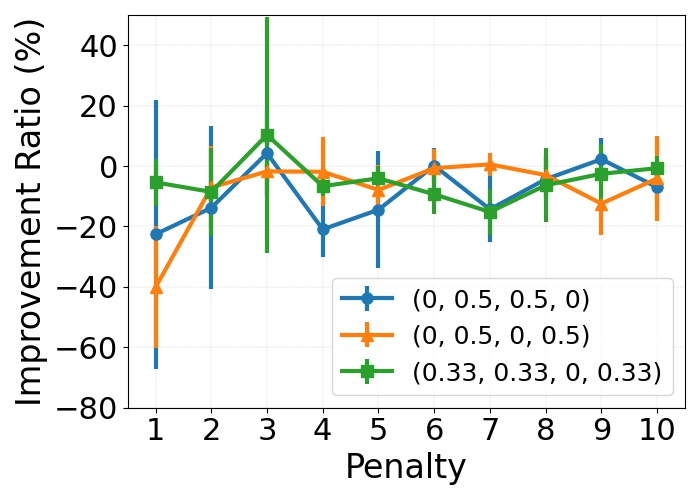
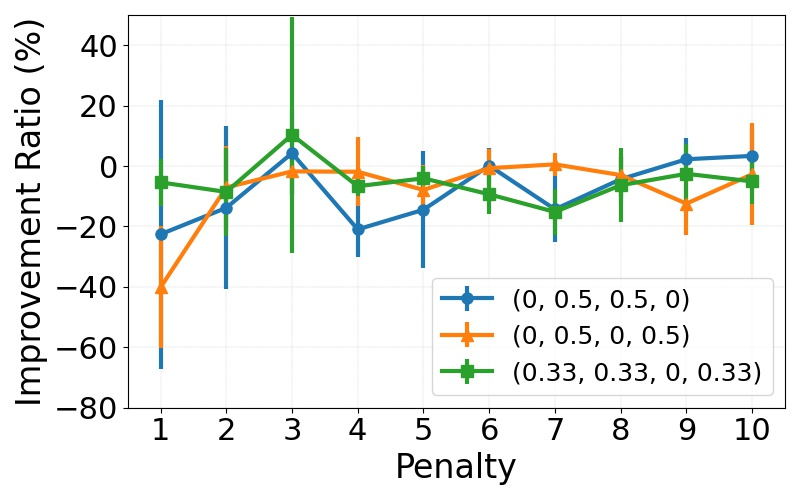
collecting more traces with penalty 10

diff --git a/ResultAnalysis/overall_performance.py b/ResultAnalysis/overall_performance.py
@@ -1,5 +1,5 @@
 """
-    Performance summary when penalty factor is 1
+    Overall performance. Factor 10 vs 1
 """
 
 import datetime
@@ -21,13 +21,11 @@ dataset_name = 'speech_command'
 model_name = 'resnet_10'
 initial_M = 20
 initial_E = 20
-penalty = 1
+penalty_arr = [1, 10]
 trace_id_arr = [1, 2, 3]
 
 # --- End of Configuration ---
 
-# average overall performance
-mean_overall = 0
 
 # temporarily add this project to system path
 project_dir = str(pathlib.Path(__file__).resolve().parents[1])
@@ -68,18 +66,16 @@ baseline = read_traces_of_preference_penalty(
 
 for preference in preference_combine_all:
 
-    trace_result = read_traces_of_preference_penalty(
-        dataset_name=dataset_name, model_name=model_name, initial_M=initial_M, initial_E=initial_E,
-        preference=preference, penalty=penalty, trace_id_arr=trace_id_arr, baseline=baseline)
-    result_map[tuple(preference)] = trace_result
+    for penalty in penalty_arr:
+        trace_result = read_traces_of_preference_penalty(
+            dataset_name=dataset_name, model_name=model_name, initial_M=initial_M, initial_E=initial_E,
+            preference=preference, penalty=penalty, trace_id_arr=trace_id_arr, baseline=baseline)
+        map_key = np.append(preference, [penalty])
+        result_map[tuple(preference)] = trace_result
 
 # For ReadMe format
 markdown_message = '| alpha | beta | gamma | delta | penalty | trace id | CompT (10^12) | TransT (10^6) | CompL (10^12) | TransL (10^6) | Final M | Final E | Overall |\n'
 markdown_message += '| :---: | :---: | :---: | :---: | :---: | :---: | :---: | :---: | :---: | :---: | :---: | :---: | :---: |\n'
-
-# For Latex format in paper writing
-latex_message = r'\begin{tabular}{c c c c | c c c c | c c | c}' + '\n'
-latex_message += r'$\alpha$ & $\beta$ & $\gamma$  & $\delta$ & CompT ($10^{12}$) & TransT ($10^6$) & CompL ($10^{12}$) & TransL ($10^6$) & Final M & Final E & Overall \\' + '\n'
 
 markdown_message += f'| - | - | - | - | - | {trace_id_arr} | ' \
                     f'{baseline.mean_system[0] / 10 ** 12:.2f} ({baseline.std_system[0] / 10 ** 12:.2f}) | ' \
@@ -89,20 +85,10 @@ markdown_message += f'| - | - | - | - | - | {trace_id_arr} | ' \
                     f'{baseline.mean_final_M:.2f} ({baseline.std_final_M:.2f}) | ' \
                     f'{baseline.mean_final_E:.2f} ({baseline.std_final_E:.2f}) | - |\n'
 
-latex_message += f'- & - & - & - & ' \
-                    f'{baseline.mean_system[0] / 10 ** 12:.2f} ({baseline.std_system[0] / 10 ** 12:.2f}) & ' \
-                    f'{baseline.mean_system[1] / 10 ** 6:.2f} ({baseline.std_system[1] / 10 ** 6:.2f}) & ' \
-                    f'{baseline.mean_system[2] / 10 ** 12:.2f} ({baseline.std_system[2] / 10 ** 12:.2f}) & ' \
-                    f'{baseline.mean_system[3] / 10 ** 6:.2f} ({baseline.std_system[3] / 10 ** 6:.2f}) & ' \
-                    f'{int(baseline.mean_final_M)} & ' \
-                    f'{int(baseline.mean_final_E)} & - \\\\\n'
-
 for preference in preference_combine_all:
 
     preference = tuple(preference)
     traces_result = result_map[preference]
-
-    mean_overall += traces_result.mean_improve_ratio
 
     markdown_message += f'| {preference[0]} | {preference[1]} | {preference[2]} | {preference[3]} | {penalty} | {trace_id_arr} | ' \
                             f'{traces_result.mean_system[0]/10**12:.2f} ({traces_result.std_system[0]/10**12:.2f}) | ' \
@@ -114,23 +100,7 @@ for preference in preference_combine_all:
                             f'{np.format_float_positional(100*traces_result.mean_improve_ratio, precision=2, sign=True)}% ' \
                             f'({100*traces_result.std_improve_ratio:.2f}%) |\n'
 
-    latex_message += f'{preference[0]} & {preference[1]} & {preference[2]} & {preference[3]} & ' \
-                            f'{traces_result.mean_system[0]/10**12:.2f} ({traces_result.std_system[0]/10**12:.2f}) & ' \
-                            f'{traces_result.mean_system[1]/10**6:.2f} ({traces_result.std_system[1]/10**6:.2f}) & ' \
-                            f'{traces_result.mean_system[2]/10**12:.2f} ({traces_result.std_system[2]/10**12:.2f}) & ' \
-                            f'{traces_result.mean_system[3]/10**6:.2f} ({traces_result.std_system[3]/10**6:.2f}) & ' \
-                            f'{traces_result.mean_final_M:.2f} ({traces_result.std_final_M:.2f}) & ' \
-                            f'{traces_result.mean_final_E:.2f} ({traces_result.std_final_E:.2f}) & ' \
-                            f'{np.format_float_positional(100*traces_result.mean_improve_ratio, precision=2, sign=True)}\% ' \
-                            f'({100*traces_result.std_improve_ratio:.2f}\%) \\\\\n'
-
-
-print(f'\nMean overall performance: {100*mean_overall/len(preference_combine_all):.2f}%')
 
 print('\n ------ Below for ReadMe ------\n')
 print(markdown_message)
-
-print('\n ------ Below for Latex ------\n')
-latex_message += r'\end{tabular}' + '\n'
-print(latex_message)
 

diff --git a/Model/VGG.py b/Model/VGG.py
@@ -1,0 +1,78 @@
+"""
+    VGG models
+
+    Code from <https://github.com/SymbioticLab/Oort/blob/master/training/utils/models.py>
+"""
+
+import torch
+import torch.nn as nn
+import torch.nn.functional as F
+
+
+def cfg(depth):
+    depth_lst = [11, 13, 16, 19]
+    assert (depth in depth_lst), "Error : VGGnet depth should be either 11, 13, 16, 19"
+    cf_dict = {
+        '11': [
+            64, 'mp',
+            128, 'mp',
+            256, 256, 'mp',
+            512, 512, 'mp',
+            512, 512, 'mp'],
+        '13': [
+            64, 64, 'mp',
+            128, 128, 'mp',
+            256, 256, 'mp',
+            512, 512, 'mp',
+            512, 512, 'mp'
+        ],
+        '16': [
+            64, 64, 'mp',
+            128, 128, 'mp',
+            256, 256, 256, 'mp',
+            512, 512, 512, 'mp',
+            512, 512, 512, 'mp'
+        ],
+        '19': [
+            64, 64, 'mp',
+            128, 128, 'mp',
+            256, 256, 256, 256, 'mp',
+            512, 512, 512, 512, 'mp',
+            512, 512, 512, 512, 'mp'
+        ],
+    }
+
+    return cf_dict[str(depth)]
+
+
+def conv3x3(in_planes, out_planes, stride=1):
+    return nn.Conv2d(in_planes, out_planes, kernel_size=3, stride=stride, padding=1, bias=True)
+
+
+class VGG(nn.Module):
+    def __init__(self, num_input_feature, depth, num_classes=10):
+        super(VGG, self).__init__()
+        self.features = self._make_layers(num_input_feature, cfg(depth))
+        self.linear = nn.Linear(512, num_classes)
+
+    def forward(self, x):
+        out = self.features(x)
+        out = out.view(out.size(0), -1)
+        out = self.linear(out)
+
+        return out
+
+    def _make_layers(self, num_input_feature, cfg):
+        layers = []
+        in_planes = num_input_feature
+
+        for x in cfg:
+            if x == 'mp':
+                layers += [nn.MaxPool2d(kernel_size=2, stride=2)]
+            else:
+                layers += [conv3x3(in_planes, x), nn.BatchNorm2d(x), nn.ReLU(inplace=True)]
+                in_planes = x
+
+        # After cfg convolution
+        layers += [nn.AvgPool2d(kernel_size=1, stride=1)]
+        return nn.Sequential(*layers)

diff --git a/Model/model_complexity_analysis.py b/Model/model_complexity_analysis.py
@@ -1,0 +1,35 @@
+
+import numpy as np
+import torch.cuda
+
+from Model.ResNet import ResNet
+from Model.VGG import VGG
+from Dataset.speech_command import SPEECH_COMMAND_N_CLASS, SPEECH_COMMAND_N_INPUT_FEATURE
+
+from ptflops import get_model_complexity_info
+
+# depth_arr = [10, 18, 26, 34] # resnet
+depth_arr = [11, 13, 16, 19]  # vgg
+macs_arr = np.zeros(len(depth_arr))
+params_arr = np.zeros(len(depth_arr))
+
+with torch.cuda.device(0):
+
+    for i in range(len(depth_arr)):
+
+        depth = depth_arr[i]
+
+        net = VGG(num_input_feature=SPEECH_COMMAND_N_INPUT_FEATURE, depth=depth, num_classes=SPEECH_COMMAND_N_CLASS)
+        macs, params = get_model_complexity_info(net, (1, 32, 32), as_strings=False,
+                                                 print_per_layer_stat=False, verbose=True)
+
+        # print('{:<30}  {}'.format('Computational complexity: ', macs))
+        # print('{:<30}  {}'.format('Number of parameters: ', params))
+
+        macs_arr[i] = macs
+        params_arr[i] = params
+
+np.set_printoptions(suppress=True, formatter={'float_kind': '{:0.2f}'.format})
+print('{:<20}'.format('Depth Layers: '), depth_arr)
+print('{:<20}'.format('FLOPs: '), macs_arr)
+print('{:<20}'.format('Params: '), params_arr)

diff --git a/Model/ModelWrapper.py b/Model/ModelWrapper.py
@@ -7,6 +7,7 @@
 import re
 
 from Model.ResNet import ResNet
+from Model.VGG import VGG
 from Dataset.speech_command import SPEECH_COMMAND_N_CLASS, SPEECH_COMMAND_N_INPUT_FEATURE
 
 
@@ -32,6 +33,9 @@ class ModelWrapper:
         if model_detail[0] == 'resnet':
             n_layers = int(model_detail[1])
             return ResNet(depth=n_layers, num_input_feature=n_input_feature, num_classes=n_target_class)
+        elif model_detail[0] == 'vgg':
+            n_layers = int(model_detail[1])
+            return VGG(depth=n_layers, num_input_feature=n_input_feature, num_classes=n_target_class)
         else:
             print(f'unknown model structure {model_detail[0]}')
             exit(-1)

diff --git a/ResultAnalysis/ReadTrace.py b/ResultAnalysis/ReadTrace.py
@@ -24,7 +24,11 @@ model_complexity = {
     'speech_command__resnet_10': (12466403, 79715),
     'speech_command__resnet_18': (26794211, 177155),
     'speech_command__resnet_26': (41122019, 274595),
-    'speech_command__resnet_34': (60119267, 515555)
+    'speech_command__resnet_34': (60119267, 515555),
+    'speech_command__vgg_11': (152334371, 9242787),
+    'speech_command__vgg_13': (228225059, 9427683),
+    'speech_command__vgg_16': (313266211, 14739939),
+    'speech_command__vgg_19': (398307363, 20052195)
 }
 
 

diff --git a/ResultAnalysis/penalty_performance.py b/ResultAnalysis/penalty_performance.py
@@ -45,7 +45,7 @@ for i_preference, preference in enumerate(preference_arr):
             preference=preference, penalty=penalty, trace_id_arr=trace_id_arr, baseline=baseline)
         result_preference_matrix[i_preference][i_penalty] = trace_result
 
-plt.figure(1, figsize=(7, 5))
+plt.figure(1, figsize=(8, 5))
 for i in range(len(preference_arr)):
     plt.errorbar(penalty_factor_arr,
                  y=[100 * result.mean_improve_ratio for result in result_preference_matrix[i]],
